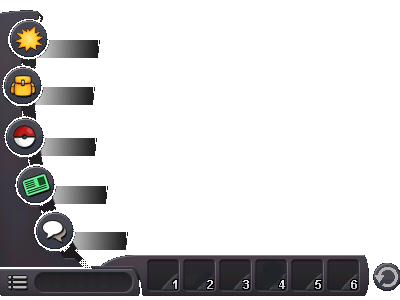
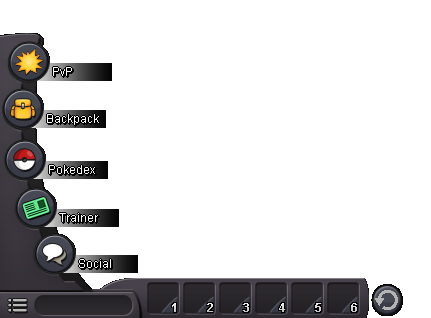
Added GUI menu and Pokebag Todo: make interaction with pokebag and add prof oak in his lab/story/rules

Changed region(s): [[0.0, 0.03, 1.0, 1.0]]

diff --git a/Pokemon/src/GUI/GUI.cpp b/Pokemon/src/GUI/GUI.cpp
@@ -7,13 +7,15 @@ static Sprite* boxSprite;
 static Sprite* menuSprite = nullptr;
 static Sprite* pokeHolder = nullptr;
 static Window* window;
+static Trainer* trainer;
 static TTF_Font* font;
 static SDL_Texture* texture;
 static bool menuClicked;
 
-void GUI::Init(Window* windows)
+void GUI::Init(Window* windows, Trainer* trainers)
 {
 	window = windows;
+	trainer = trainers;
 	ChangeFont(12);
 	menuSprite = new Sprite("Assets/GUI/Menu.png", window);
 	pokeHolder = new Sprite("Assets/GUI/PokeHolder.png", window);
@@ -47,9 +49,21 @@ void GUI::ChangeFontSize(int x, int y, int w, int h)
 
 void GUI::MainMenu()
 {
-	SDL_Rect menuRect = { 0, window->GetHeight() - 400, 400, 400 };
-	SDL_Rect pokeRect = { 10, 10, 200, 50 };
+	SDL_Rect menuRect = { 0, window->GetHeight() - 400, 450, 400 };
+	SDL_Rect pokeRect = { 10, 10, 50, 50 };
+
+	for (int i = 0; i < 5; i++)
+	{
+		pokeRect.y += 50;
+		if (trainer->pokebag[i] != NULL)
+		{
+			trainer->pokebag[i]->DrawPokemon(pokeRect);
+		}
+		else
+		{
+			SDL_RenderCopy(window->GetRender(), pokeHolder->tex, NULL, &pokeRect);
+		}
+	}
 
 	SDL_RenderCopy(window->GetRender(), menuSprite->tex, NULL, &menuRect);
-	SDL_RenderCopy(window->GetRender(), pokeHolder->tex, NULL, &pokeRect);
 }

diff --git a/Pokemon/src/Pokemon/Pokemon.cpp b/Pokemon/src/Pokemon/Pokemon.cpp
@@ -5,6 +5,7 @@ Pokemon::Pokemon(Window* window, const char* spritePath, std::string name, Type 
 	this->name = name;
 	this->type = type;
 	this->level = level;
+	this->window = window;
 
 	experience = 0;
 	requiredExp *= level;
@@ -18,6 +19,7 @@ Pokemon::Pokemon(Window* window, const char* spritePath, std::string name, Type 
 	this->type = type;
 	this->type2 = type2;
 	this->level = level * level;
+	this->window = window;
 
 	experience = 0;
 	requiredExp *= level;
@@ -62,6 +64,11 @@ bool Pokemon::LevelUp()
 		return true;
 	}
 	return false;
+}
+
+void Pokemon::DrawPokemon(SDL_Rect rect)
+{
+	SDL_RenderCopy(window->GetRender(), sprite->tex, NULL, &rect);
 }
 
 void Pokemon::OnUpdate()

diff --git a/Pokemon/src/Kanto/PalletTown/ProfOakLab.cpp b/Pokemon/src/Kanto/PalletTown/ProfOakLab.cpp
@@ -148,14 +148,14 @@ void ProfOakLab::ChoosePokemon(const char* name)
 			std::cout << "you chose " << name << "\n";
 			for (int i = 0; i < 5; i++)
 			{
-				if (trainer->pokebag[i] == NULL)
+				if (trainer->pokebag[i] == NULL && !hasBeenChosen)
 				{
 					Pokemon* poke = CreateStarterPokemon(name);
 					trainer->pokebag[i] = poke;
 					trainer->starterPokemon = name;
+					hasBeenChosen = true;
 				}
 			}
-			hasBeenChosen = true;
 			break;
 		}
 		else if (Input::KeyPressed(Key::N))

diff --git a/Pokemon/src/GUI/GUI.h b/Pokemon/src/GUI/GUI.h
@@ -5,11 +5,12 @@
 #include <string>
 #include "../Window.h"
 #include "../Sprite.h"
+#include "../Trainer/Trainer.h"
 
 class GUI
 {
 public:
-	static void Init(Window* windows);
+	static void Init(Window* windows, Trainer* trainers);
 	static void MessageBox(int x, int y, int w, int h, std::string message);
 	static void ChangeFont(int value);
 	static void ChangeFontSize(int x, int y, int w, int h);

diff --git a/Pokemon/src/GameManager.cpp b/Pokemon/src/GameManager.cpp
@@ -4,7 +4,7 @@ GameManager::GameManager(Window* window)
 {
     this->window = window;
     trainer = new Trainer(window, "Ash", "Assets/Trainers/MainTrainer.png", window->GetWidth() / 2, window->GetHeight() / 2, 62, 62, 100);
-    GUI::Init(window);
+    GUI::Init(window, trainer);
 }
 
 GameManager::~GameManager()

diff --git a/Pokemon/src/Pokemon/Pokemon.h b/Pokemon/src/Pokemon/Pokemon.h
@@ -31,7 +31,7 @@ public:
 	std::string GetName();
 
 	bool LevelUp();
-	void DrawPokemon();
+	void DrawPokemon(SDL_Rect rect);
 	void OnUpdate();
 
 	Stats stats;
@@ -47,4 +47,5 @@ private:
 	int experience;
 	int requiredExp;
 	std::string name;
+	Window* window;
 };
